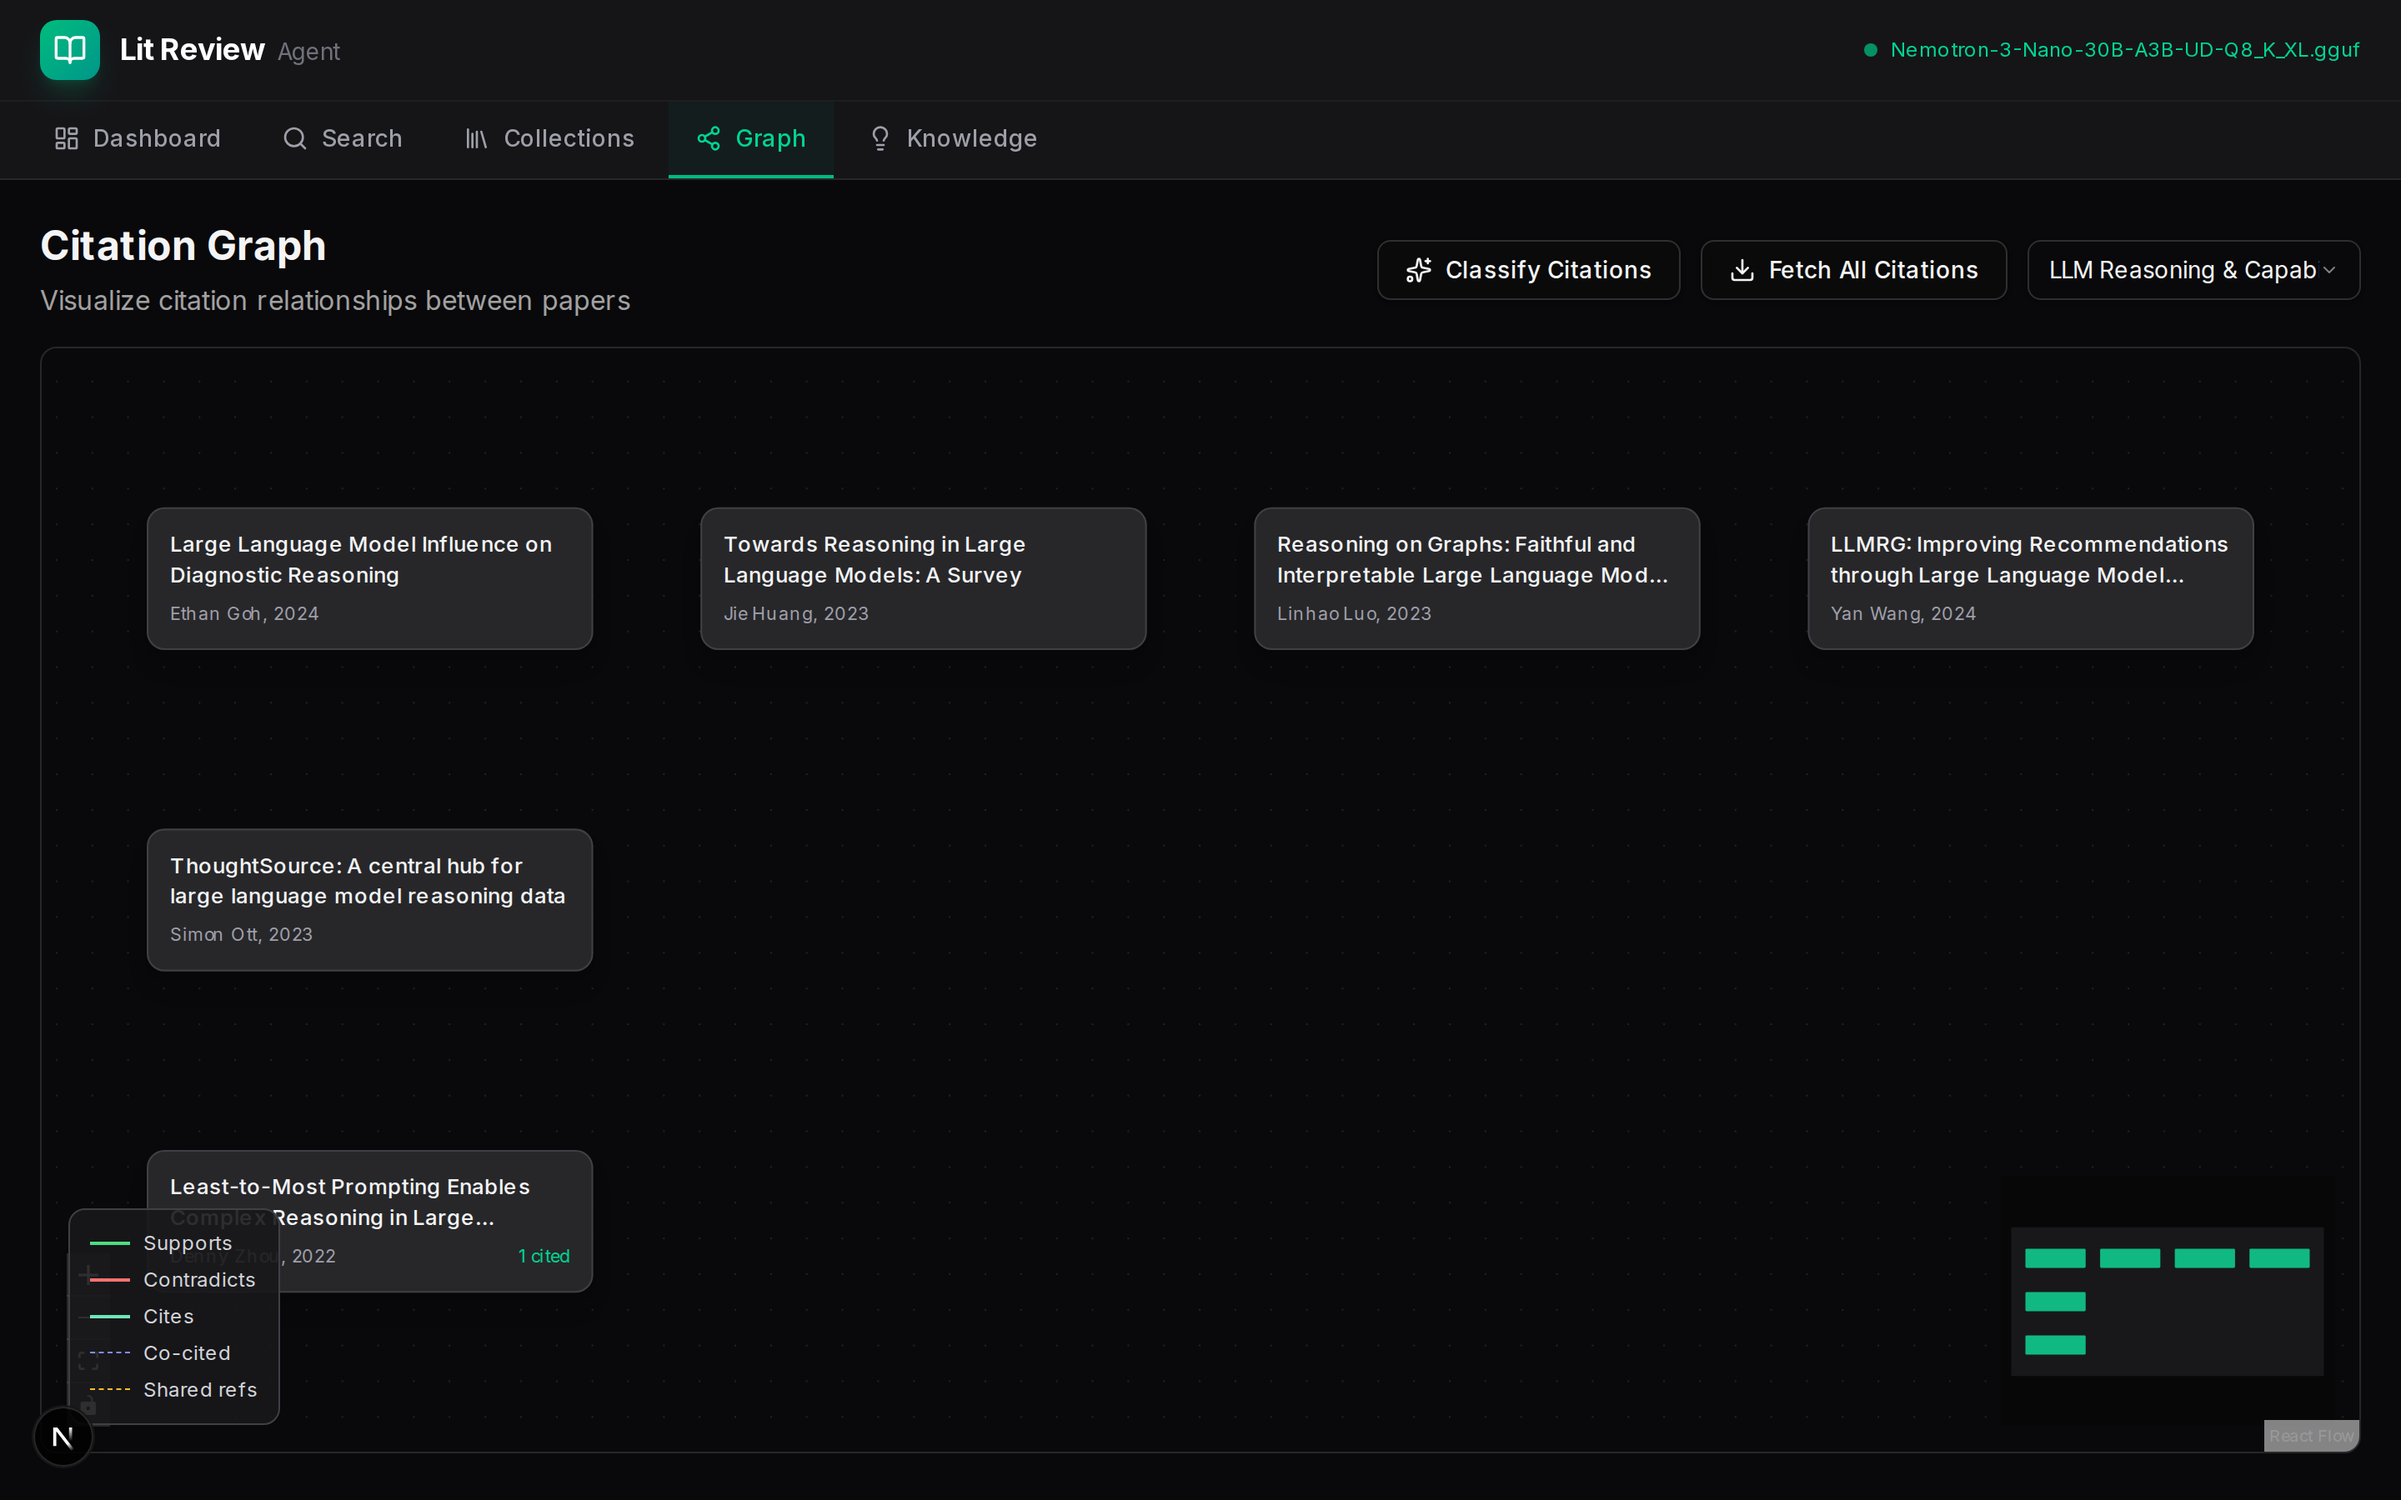
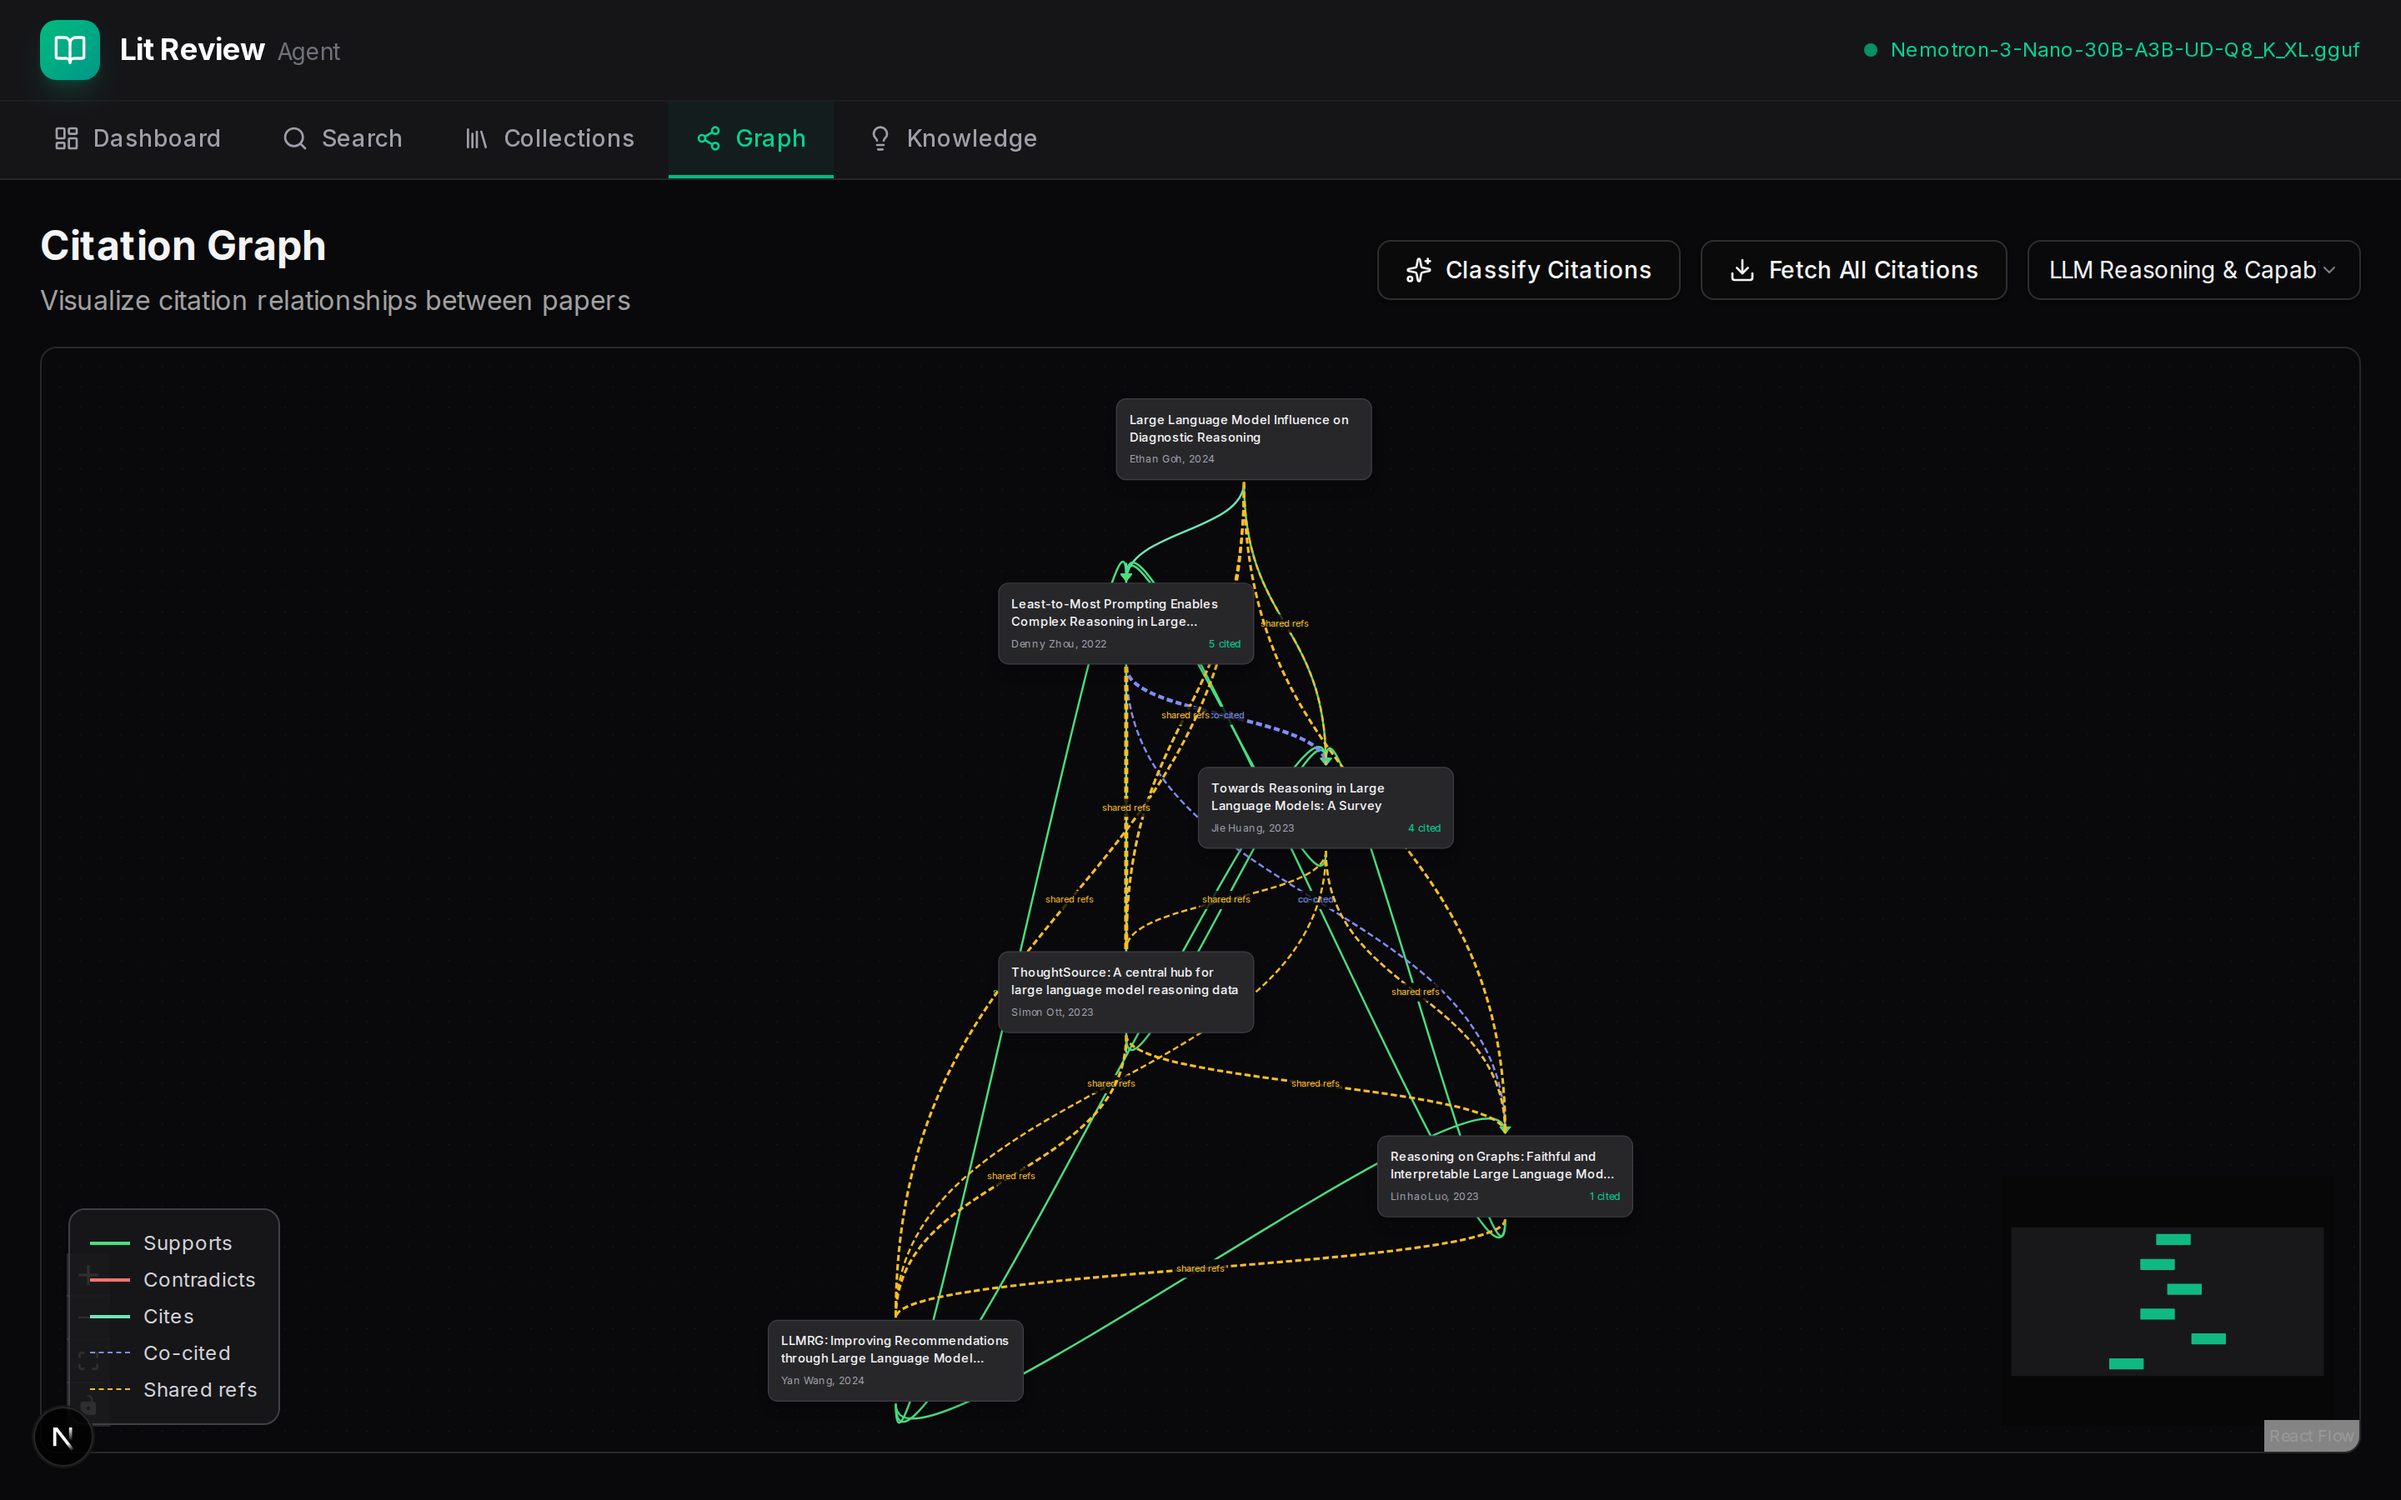
Fix citation graph edges not rendering
Custom PaperNode components were missing xyflow Handle components,
which are required for edges to have connection points. Added invisible
Handle elements at top (target) and bottom (source) of each node.
Also increased edge stroke width from 1.5px to 2px and removed the
animated property for cleaner static rendering.

diff --git a/src/components/citation-graph.tsx b/src/components/citation-graph.tsx
@@ -6,6 +6,8 @@ import {
   Background,
   Controls,
   MiniMap,
+  Handle,
+  Position,
   useNodesState,
   useEdgesState,
   type Node,
@@ -83,6 +85,7 @@ function getLayoutedElements(nodes: Node[], edges: Edge[]) {
 function PaperNode({ data }: { data: { title: string; year: number | null; authors: string[]; citationCount: number } }) {
   return (
     <div className="bg-zinc-800 border border-zinc-700 rounded-lg p-3 w-[250px] shadow-lg hover:border-emerald-500 transition-colors cursor-pointer">
+      <Handle type="target" position={Position.Top} className="!bg-transparent !border-0 !w-4 !h-1 !min-w-0 !min-h-0" />
       <p className="text-xs font-medium text-zinc-100 line-clamp-2 leading-snug">{data.title}</p>
       <div className="flex items-center justify-between mt-1.5">
         <span className="text-[10px] text-zinc-400">
@@ -92,6 +95,7 @@ function PaperNode({ data }: { data: { title: string; year: number | null; autho
           <span className="text-[10px] text-emerald-400">{data.citationCount} cited</span>
         )}
       </div>
+      <Handle type="source" position={Position.Bottom} className="!bg-transparent !border-0 !w-4 !h-1 !min-w-0 !min-h-0" />
     </div>
   );
 }
@@ -148,10 +152,9 @@ export function CitationGraph({ collectionId, paperId, onNodeClick }: Props) {
         markerEnd: isCitation ? { type: MarkerType.ArrowClosed, color } : undefined,
         style: {
           stroke: color,
-          strokeWidth: isCitation ? 1.5 : Math.min(1 + (e.strength || 1) * 0.5, 4),
+          strokeWidth: isCitation ? 2 : Math.min(1.5 + (e.strength || 1) * 0.5, 4),
           strokeDasharray: isCitation ? undefined : "6 3",
         },
-        animated: isCitation,
         label: !isCitation
           ? (e.type === "co_citation" ? "co-cited" : "shared refs")
           : (e.relationship === "supports" ? "supports" : e.relationship === "contradicts" ? "contradicts" : undefined),

diff --git a/src/lib/website-graph-entry.tsx b/src/lib/website-graph-entry.tsx
@@ -5,6 +5,8 @@ import {
   Background,
   Controls,
   MiniMap,
+  Handle,
+  Position,
   useNodesState,
   useEdgesState,
   type Node,
@@ -78,6 +80,15 @@ function PaperNode({ data }: { data: Record<string, unknown> }) {
   const citationCount = data.citationCount as number;
   const paperId = data.paperId as number;
 
+  const handleStyle = {
+    background: "transparent",
+    border: "none",
+    width: "8px",
+    height: "2px",
+    minWidth: 0,
+    minHeight: 0,
+  };
+
   return (
     <a
       href={`papers/${paperId}.html`}
@@ -96,6 +107,7 @@ function PaperNode({ data }: { data: Record<string, unknown> }) {
       onMouseEnter={(e) => (e.currentTarget.style.borderColor = "#10b981")}
       onMouseLeave={(e) => (e.currentTarget.style.borderColor = "#3f3f46")}
     >
+      <Handle type="target" position={Position.Top} style={handleStyle} />
       <p
         style={{
           fontSize: "11px",
@@ -129,6 +141,7 @@ function PaperNode({ data }: { data: Record<string, unknown> }) {
           </span>
         )}
       </div>
+      <Handle type="source" position={Position.Bottom} style={handleStyle} />
     </a>
   );
 }
@@ -184,11 +197,10 @@ function GraphApp() {
         style: {
           stroke: color,
           strokeWidth: isCitation
-            ? 1.5
-            : Math.min(1 + (e.strength || 1) * 0.5, 4),
+            ? 2
+            : Math.min(1.5 + (e.strength || 1) * 0.5, 4),
           strokeDasharray: isCitation ? undefined : "6 3",
         },
-        animated: isCitation,
         label: !isCitation
           ? e.type === "co_citation"
             ? "co-cited"
